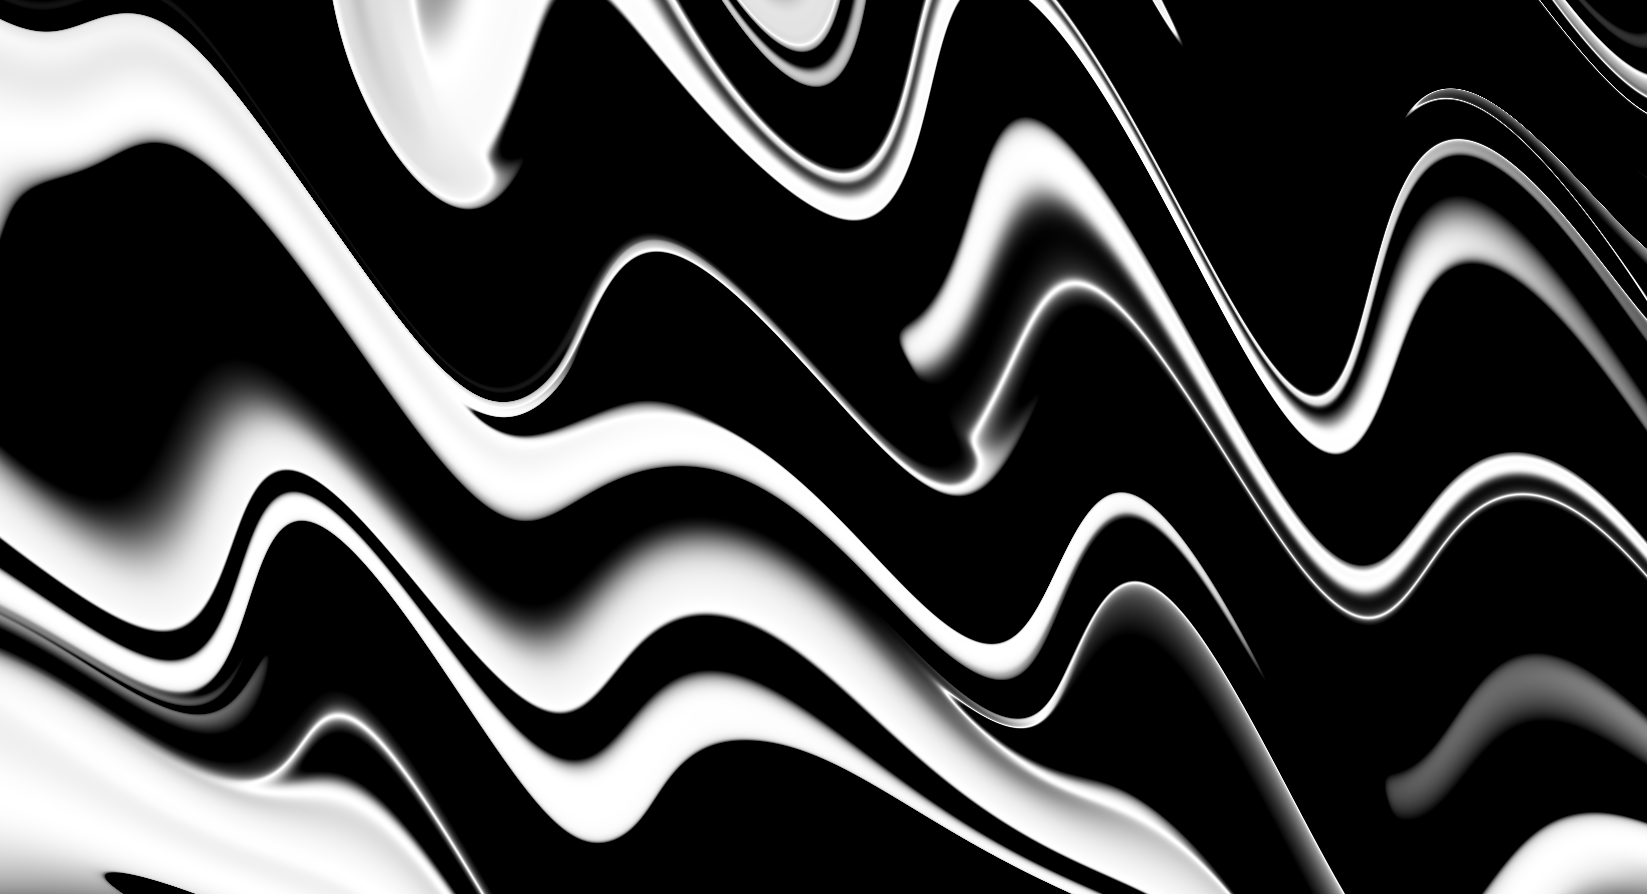
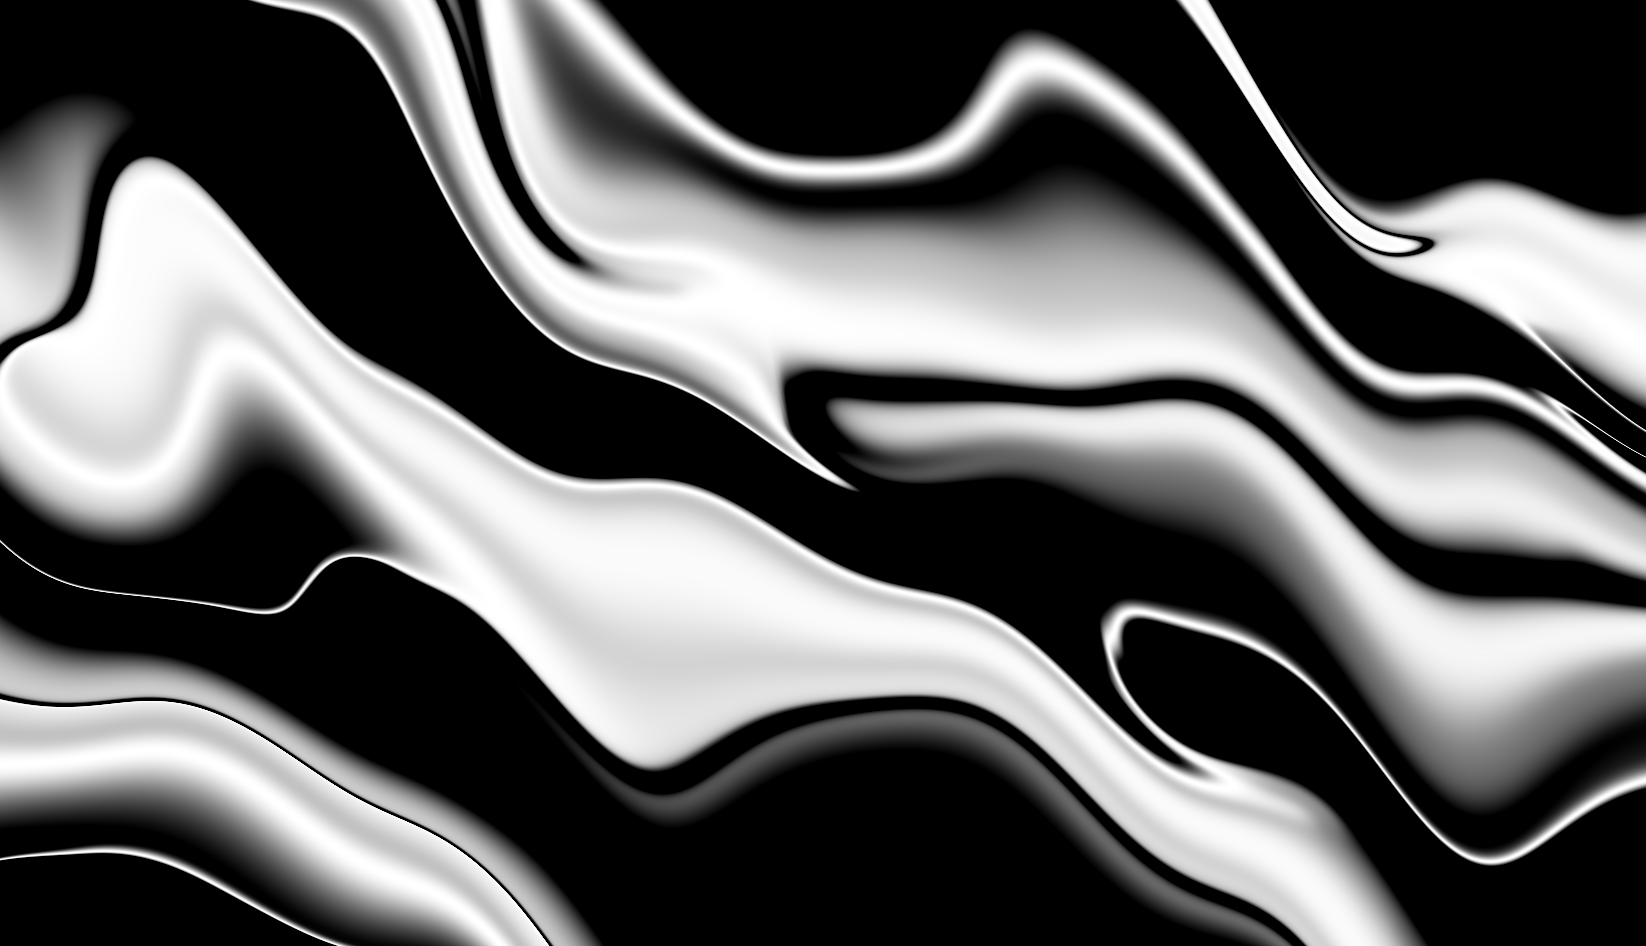
update

diff --git a/style.css b/style.css
@@ -66,34 +66,33 @@ span {
 }
 
 .banner2 {
-  background-image: url("./src/background.png");
-  height: 100%;
-  padding: 195.2px 0;
-  filter: blur(4px);
-  -webkit-filter: blur(4px);
+  background-image: url("./src/background4.png");
 
+  padding: 195.2px 0;
+  filter: blur(0px);
+  -webkit-filter: blur(.5px);
   background-position: center;
   background-repeat: no-repeat;
   background-size: cover;
+
 }
 
 .banner3 {
 
-  padding: 240.7px 0;
-  background-image: url("./src/background.png");
-  filter: blur(4px);
-  -webkit-filter: blur(4px);
-
+  padding: 195.2px 0;
+  background-image: url("./src/background4.png");
+  filter: blur(1px);
+  -webkit-filter: blur(0.5px);
   background-position: center;
   background-repeat: no-repeat;
   background-size: cover;
 }
 
 .banner4 {
-  padding: 198px 0;
-  background-image: url("./src/background.png");
+  padding: 195.2px 0;
+  background-image: url("./src/background4.png");
   filter: blur(4px);
-  -webkit-filter: blur(4px);
+  -webkit-filter: blur(0.5px);
 
   background-position: center;
   background-repeat: no-repeat;
@@ -101,10 +100,10 @@ span {
 }
 
 .banner5 {
-  padding: 224.5px 0;
-  background-image: url("./src/background.png");
+  padding: 195.2px 0;
+  background-image: url("./src/background4.png");
   filter: blur(4px);
-  -webkit-filter: blur(4px);
+  -webkit-filter: blur(0.5px);
 
   background-position: center;
   background-repeat: no-repeat;
@@ -112,10 +111,10 @@ span {
 }
 
 .banner6 {
-  padding: 245.5px 0;
-  background-image: url("./src/background.png");
+  padding: 245.2px 0;
+  background-image: url("./src/background4.png");
   filter: blur(4px);
-  -webkit-filter: blur(4px);
+  -webkit-filter: blur(0.5px);
 
   background-position: center;
   background-repeat: no-repeat;
